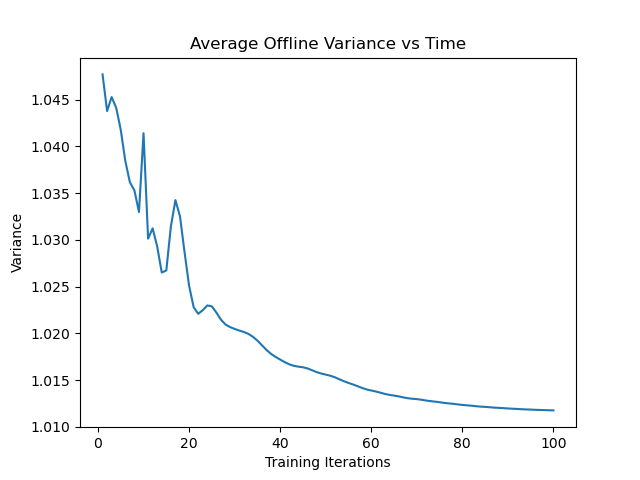
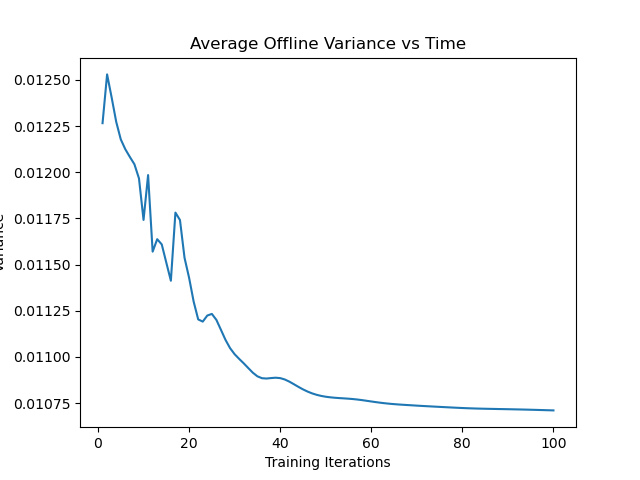
Errors in trainer.py cleaned up a little bit

diff --git a/trainer.py b/trainer.py
@@ -11,6 +11,7 @@ class ALPaCA(torch.nn.Module):
 
         self.K_0 = torch.nn.Parameter(torch.zeros(hidden_dim, 1))
         self.L_0 = torch.nn.Parameter(torch.zeros(hidden_dim, hidden_dim))
+        self.noise_parameter = 0.01
         #set A_0 = torch.matmul(self.L_0, self.L_0.T)
         #This enforces PSD
 
@@ -35,6 +36,7 @@ class ALPaCA(torch.nn.Module):
         factor = torch.matmul(context_phi.transpose(1, 2), Y_context) + torch.matmul(A_0, self.K_0) #breaks up calculation of K_context
         K_context = torch.matmul(torch.inverse(A_context), factor) #(n_batches, hidden_dim, hidden_dim) x (n_batches, hidden_dim, 1) = (n_batches, hidden_dim, 1)
         sigma_x = 1 + torch.matmul(phi_x, torch.matmul(torch.inverse(A_context), phi_x.transpose(1, 2))) #(n_batches, len_train_batch, len_train_batch)
+        sigma_x = sigma_x * self.noise_parameter
 
         #calculate predictions for backprop examples
         preds = torch.matmul(phi_x, K_context) #preds is (n_batches, len_train_batch, 1)
@@ -53,6 +55,7 @@ class ALPaCA(torch.nn.Module):
         K = torch.matmul(self.A_inverse, self.Q)
         pred = torch.matmul(K.transpose(0, 1), phi_x)
         sigma = 1 + torch.matmul(phi_x.transpose(0, 1), torch.matmul(self.A_inverse, phi_x))
+        sigma = sigma * self.noise_parameter
         if update:
             if y is None:
                 raise Exception("When doing online updates, you must specify y")
@@ -86,14 +89,15 @@ if __name__ == "__main__":
     x_train = []
     y_train = []
     n_batches = 6
-    len_context = 100
+    len_context = 15
     len_train_batch = 1 #in practice, exceeding 4 results in sigma_x being singular (should I use identity matrix instead of 1?)
     #probably is a better way to implement next 9 lines but oh well
+    phases = np.linspace(0, 1, n_batches)
     for i in range(1, n_batches+1):
-        X_context.append(torch.linspace(0, 6.28, len_context))
-        Y_context.append(torch.sin(i * torch.linspace(0, 6.28, len_context)))
-        x_train.append(torch.linspace(6.28, 9.5, len_train_batch))
-        y_train.append(torch.sin(i * torch.linspace(6.28, 9.5, len_train_batch)))
+        X_context.append(torch.linspace(0, 1, len_context))
+        Y_context.append(torch.sin(2 * np.pi * torch.linspace(0, 1, len_context) + np.pi*phases[i-1]))
+        x_train.append(torch.linspace(1, 1.2, len_train_batch))
+        y_train.append(torch.sin(2 * np.pi * torch.linspace(1, 1.2, len_train_batch) + np.pi*phases[i-1]))
     X_context = torch.stack(X_context).unsqueeze(2)
     Y_context = torch.stack(Y_context).unsqueeze(2)
     x_train = torch.stack(x_train).unsqueeze(2)
@@ -152,7 +156,7 @@ if __name__ == "__main__":
     #Online Part
     #First want to see what the model returns when predicting over the interval (what the offline posterior parameters return)
     model.start_online()
-    x = np.linspace(0, 6.28, 100)
+    x = np.linspace(0, 1, 100)
     y_top = []
     y = []
     y_bottom = []
@@ -184,8 +188,8 @@ if __name__ == "__main__":
 
 
     #Now want to fit to a specific sinusoid with our meta learning prior
-    x = np.linspace(0, 6.28, 100)
-    y = np.sin(x)
+    x = np.linspace(0, 1, 100)
+    y = np.sin(2*np.pi*x + 0.5*np.pi)
     y_pred_top = []
     y_pred = []
     y_pred_bottom = []
@@ -193,15 +197,34 @@ if __name__ == "__main__":
         pred, sigma = model.online(torch.tensor(x[i:i+1]).float(), update=True, y=torch.tensor(y[i:i+1]).float())
         u = pred.detach().numpy()[0][0]
         v = np.sqrt(sigma.detach().numpy()[0][0]) #standard deviation
-        print(v)
+        #print(v)
         y_pred.append(u)
         y_pred_bottom.append(u - 2*v)
         y_pred_top.append(u + 2*v)
 
-    #Plot predictions without confidence interval (easier to see)
+    y_pred = []
+    y_pred_bottom = []
+    y_pred_top = []
+    for i in range(len(x)):
+        pred, sigma = model.online(torch.tensor(x[i:i+1]).float())
+        u = pred.detach().numpy()[0][0]
+        v = np.sqrt(sigma.detach().numpy()[0][0]) #standard deviation
+        #print(v)
+        y_pred.append(u)
+        y_pred_bottom.append(u - 2*v)
+        y_pred_top.append(u + 2*v)
+
+    #Plot predictions
     plt.figure(5)
+    x = x[5:]
+    y = y[5:]
+    y_pred = y_pred[5:]
+    y_pred_top = y_pred_top[5:]
+    y_pred_bottom = y_pred_bottom[5:]
     plt.plot(x, y, "black")
     plt.plot(x, y_pred, "blue")
+    plt.plot(x, y_pred_top, "red")
+    plt.plot(x, y_pred_bottom, "red")
     plt.title("Predictions from the Meta Learning Prior")
     plt.xlabel("x")
     plt.ylabel("y")
